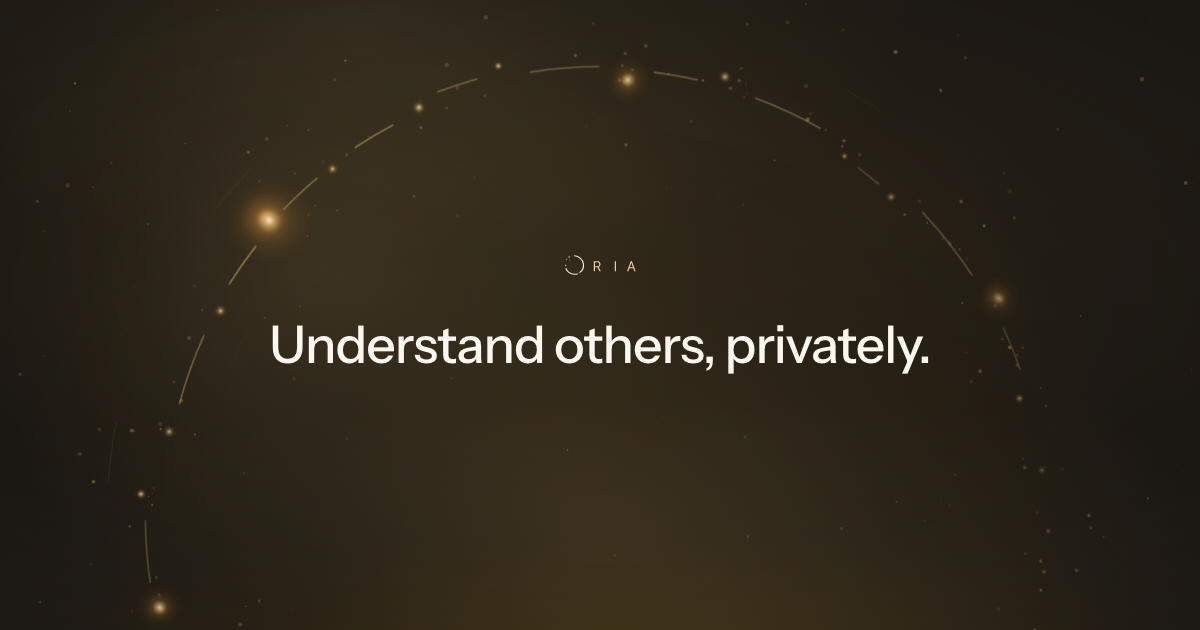
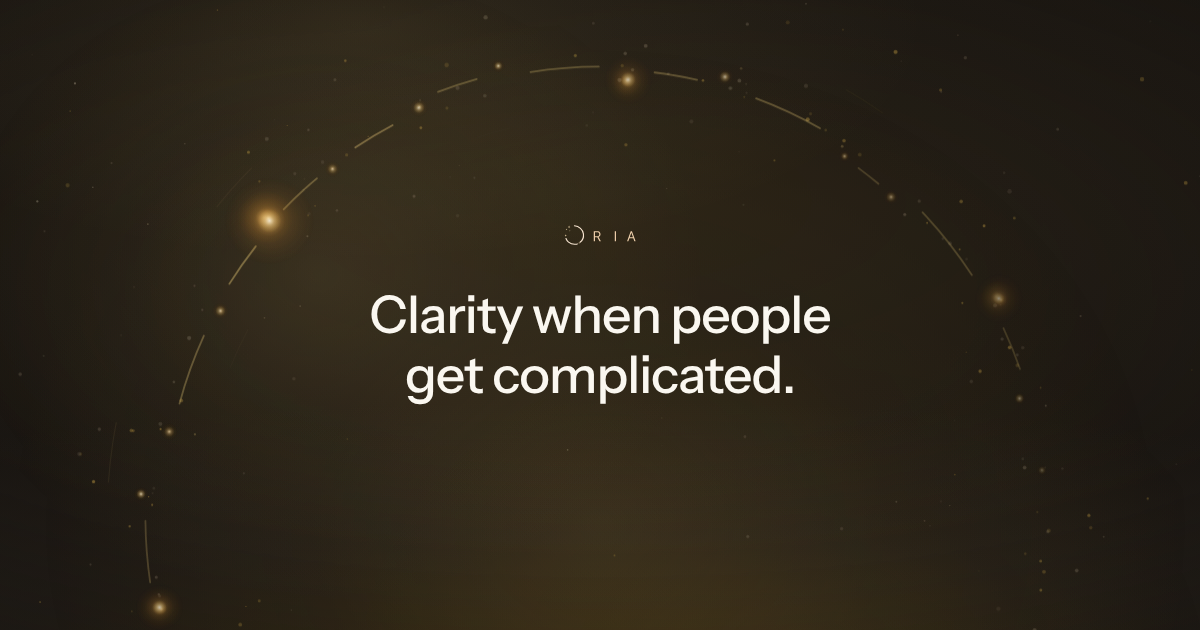
Adopt "Clarity when people get complicated." on the site (#7)
Ivy adopted the tagline and the sentence on 2026-10-30. The headline now
wraps to two balanced lines at every width, because on one line it crosses
the bowl's arc. The encryption proof moves to the description meta tag.
The social card is regenerated from the page.

Claude-Session: https://claude.ai/code/session_019f9TSMDBEPLm3CgBPnT82b

Changed region(s): [[0.2158, 0.4524, 0.7708, 0.6635], [0.4933, 0.3619, 0.5242, 0.3921]]

diff --git a/app/layout.tsx b/app/layout.tsx
@@ -19,9 +19,9 @@ const instrumentSans = localFont({
 
 const SITE = 'https://oriastudio.ai'
 const TITLE = 'Oria: Your People Compass'
-const TAGLINE = 'Understand others, privately'
+const TAGLINE = 'Clarity when people get complicated'
 const DESCRIPTION =
-  'Understand partners, friends, family and coworkers with Oria. Powered by Claude. Your saved history is encrypted on your devices and in your own iCloud.'
+  'Oria gives you a private space to make sense of what’s going on with the people in your life. Powered by Claude. Your saved history is encrypted on your devices and in your own iCloud.'
 
 export const metadata: Metadata = {
   metadataBase: new URL(SITE),

diff --git a/app/page.tsx b/app/page.tsx
@@ -30,11 +30,11 @@ export default function Home() {
             unoptimized
           />
 
-          <h1>Understand others, privately.</h1>
+          <h1>Clarity when people get complicated.</h1>
 
           <p className="lede">
-            <span className="lede__clause">Your saved history is encrypted on your devices</span>{' '}
-            <span className="lede__clause">and in your own iCloud.</span>
+            <span className="lede__clause">Oria gives you a private space to make sense</span>{' '}
+            <span className="lede__clause">of what’s going on with the people in your life.</span>
           </p>
 
           <Waitlist />

diff --git a/app/globals.css b/app/globals.css
@@ -688,18 +688,9 @@ h1 {
     transform: translate(-50%, -58%);
   }
 
-  /* Wide enough for the headline on one line, so the column takes the
-     headline's width and the lede sits under it as two shorter lines. */
-  .hero {
-    width: fit-content;
-    max-width: 100%;
-  }
-
-  h1 {
-    white-space: nowrap;
-  }
-
-  /* wide enough for the first clause on one line, too narrow for both */
+  /* The headline wraps to two balanced lines at every width: on one line it
+     is about 830px at 50px, wider than the bowl's open middle. The lede gets
+     room for each clause on its own line. */
   .lede {
     max-width: 52ch;
   }

diff --git a/README.md b/README.md
@@ -9,19 +9,28 @@ Next.js 16 (App Router) · TypeScript · no CSS framework · no database.
 
 ## Adopted positioning
 
-Adopted by Ivy on October 29, 2026:
+Adopted by Ivy on October 29, 2026 for the App Store:
 
 > Oria: Your People Compass
+
+Adopted by Ivy on October 30, 2026 for this page, the README and the pitch:
+
+> Clarity when people get complicated.
 >
-> Understand others, privately
+> Oria gives you a private space to make sense of what’s going on with the
+> people in your life.
 
-This supersedes the October 5 public brand pair, “Become better with people”
-and its difficult-situations/people-skills supporting line. Partners, friends,
-family and work are all in scope; the product is not only for couples.
+The headline replaces “Understand others, privately”, which pointed the reader
+at other people as if Oria reads them. It also replaces the October 5 public
+brand pair, “Become better with people” and its people-skills supporting line.
+The App Store subtitle is being reworked separately. Partners, friends, family
+and work are all in scope; the product is not only for couples.
 
-The teaser uses the adopted subtitle as its headline and the approved proof:
-“Your saved history is encrypted on your devices and in your own iCloud.”
-“Powered by Claude” supplies the capability signal. The encryption promise is
+The headline wraps to two balanced lines at every width. On one line it is
+about 830px wide at 50px, wider than the bowl's open middle, so it would cross
+the arc. “Private space” carries privacy on the page. The approved proof, “Your
+saved history is encrypted on your devices and in your own iCloud.”, moves to
+the description meta tag beside “Powered by Claude”. The encryption promise is
 about saved history; relevant text is processed online for replies and memory.
 No-training and zero retention are separate claims, and this page makes no
 zero-retention promise.
